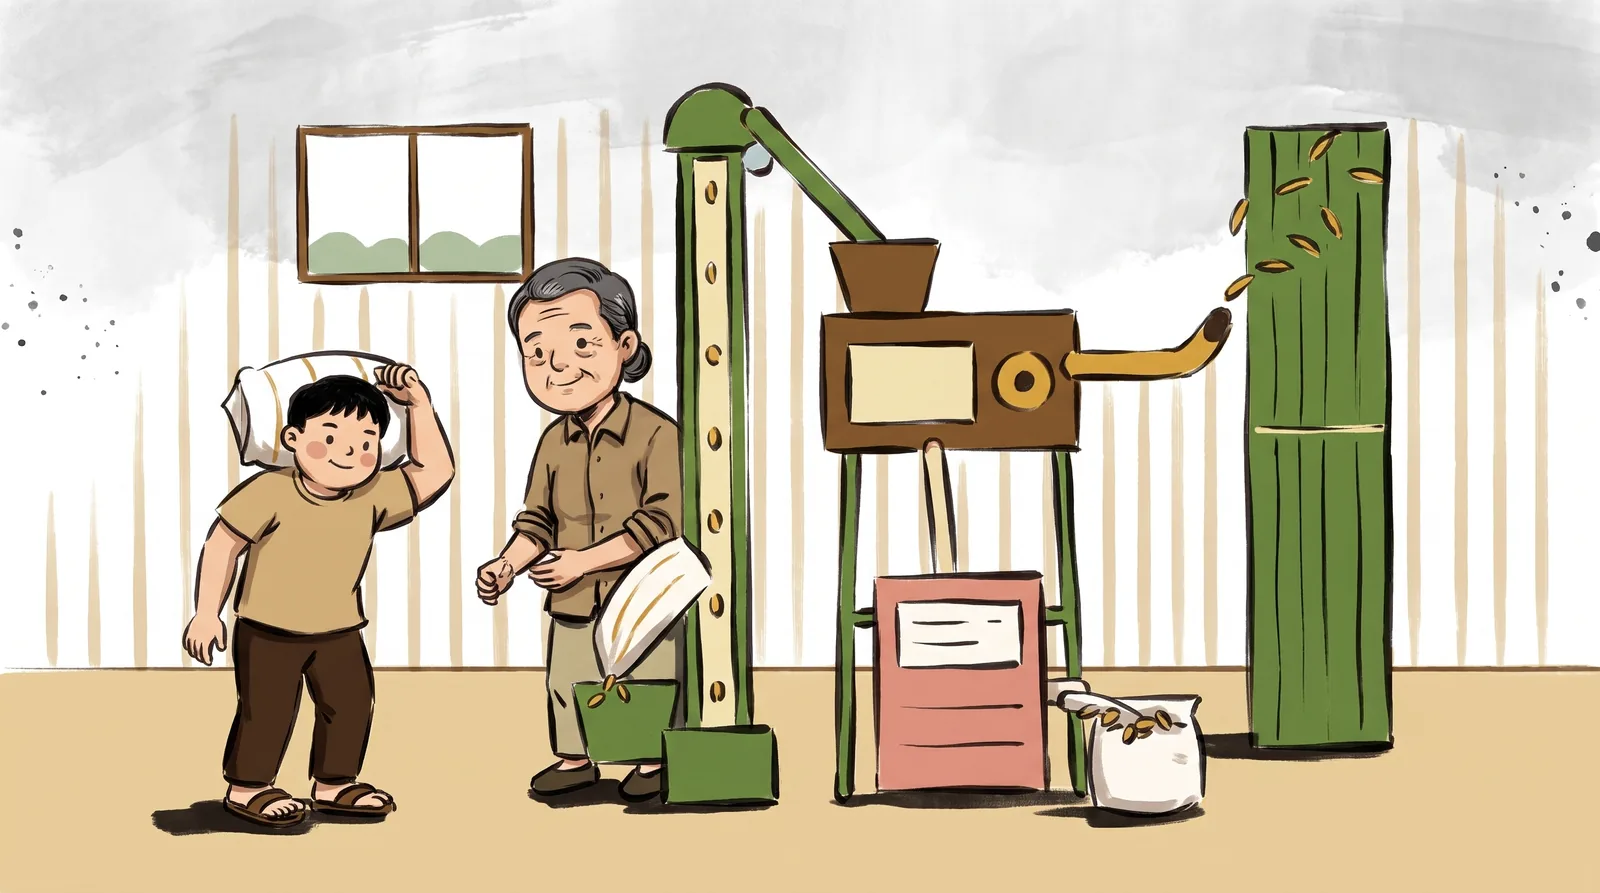
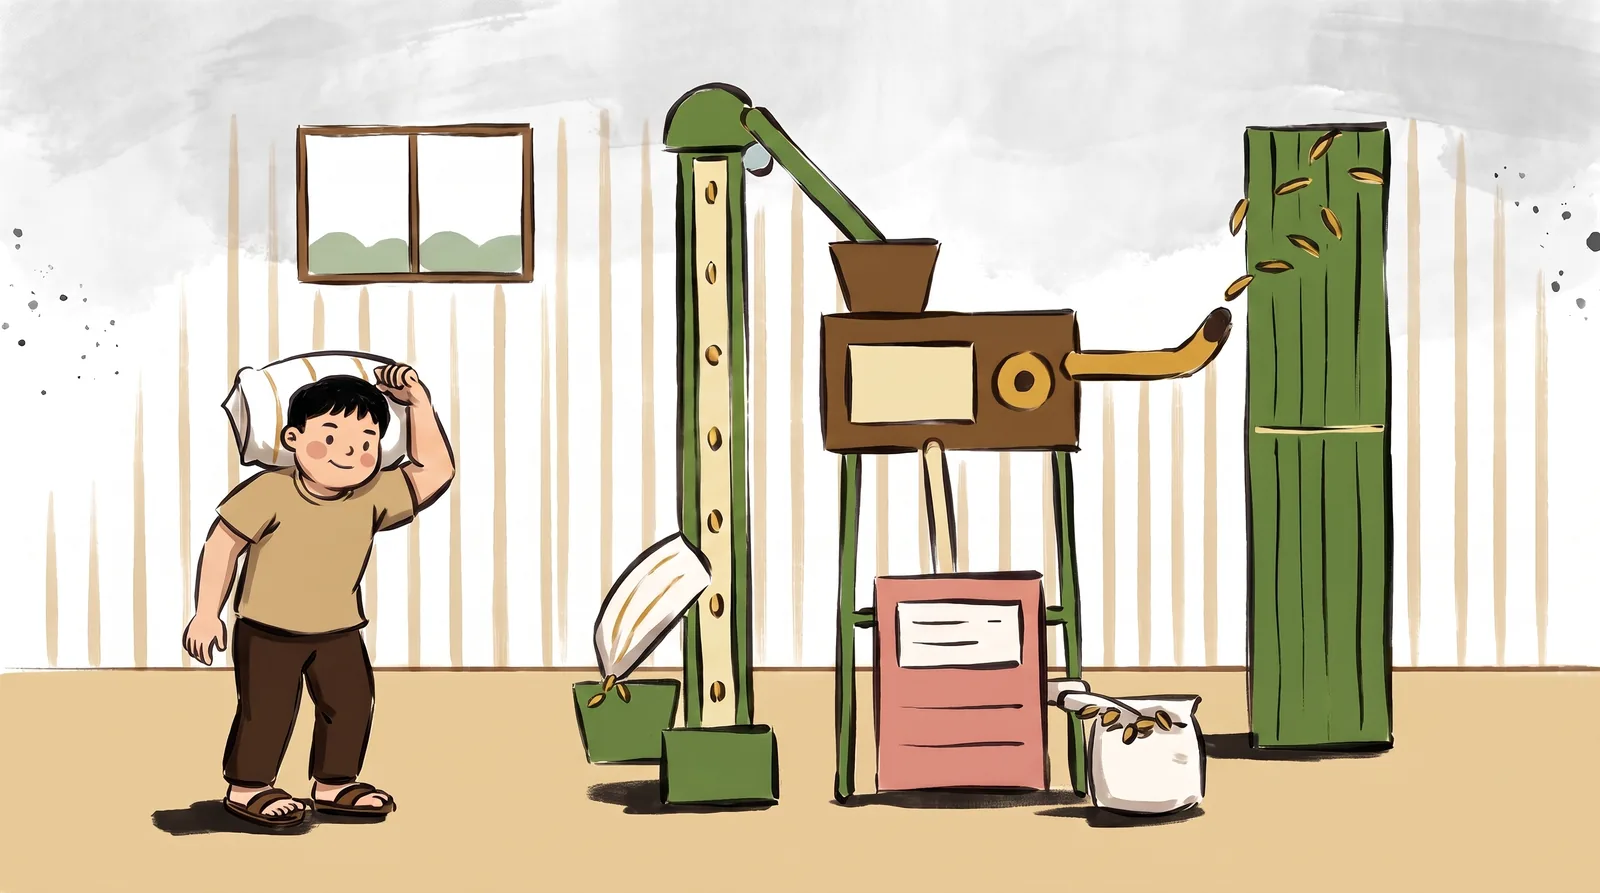
brand: journey sketches, milling with the son only, mother seated for packing

diff --git a/docs/session/log/2026-11-05-may-desktop-hanh-trinh-manhua.md b/docs/session/log/2026-11-05-may-desktop-hanh-trinh-manhua.md
@@ -12,12 +12,13 @@
 - Chủ dự án chọn: "phẳng nét mực manhua đi đẹp đó" → cảnh hành trình giữ màu phẳng và bố cục tách lớp được, nhưng nét viền là nét mực bút lông kiểu manhua (đậm nhạt, đầu nét khô); nền trời có thể loang mực nhẹ vì là lớp riêng.
 - Chủ dự án: "còn đồng lúa chưa sửa hả" → đồng lúa bước 2 phải dày hẳn: lúa mọc kín, chen nhau thành một biển lúa, không còn từng khóm rời có khoảng trống.
 - Xem bản phác thứ 3 (màu phẳng, nét mực manhua) của bước 2 và 4, chủ dự án: "okay đẹp đó duyệt" → duyệt kiểu vẽ và bố cục 2 cảnh; vẽ tiếp cảnh đêm của bước 2 và 6 cảnh còn lại theo cùng kiểu, sửa từ cảnh hiện tại.
+- Xem 7 cảnh mới, chủ dự án: cảnh xay xát chỉ có anh 2 (bỏ ba); cảnh đóng gói thì mẹ ngồi ghế đóng gạo; các cảnh còn lại OK.
 
 ## Quyết định
 - Không dùng tranh manhua cho hành trình (chủ dự án thấy chi tiết quá). Các cảnh mới vẽ theo phong cách phẳng hiện tại, chờ chủ dự án duyệt.
 
 ## Còn mở
-- Chủ dự án xem 7 cảnh mới và góp ý.
+- Chủ dự án xem lại cảnh xay xát và đóng gói đã sửa.
 - Dựng lại 9 cảnh bằng SVG tách lớp theo bản phác (sửa `brand/story/scenes/`, trace người mới). Xoá chữ lạ trên túi, máy và biển hiệu nếu có.
 - Nối tranh vào web và làm chuyển động: làm sau.
 
@@ -28,3 +29,4 @@
 - Chủ dự án hỏi "không làm style manhua hả" → giải thích: hành trình theo kiểu phẳng để làm chuyển động; manhua dùng cho tranh phần Câu chuyện; có thể làm kiểu phẳng với nét mực. Chờ chủ dự án chọn.
 - Bản phác thứ 3 (màu phẳng, nét mực manhua): đồng lúa bước 2 đã dày kín; trời thành loang mực xám (mất màu Xanh trời). Mẹ vẫn như bé gái sau 2 lần sửa → khi dựng SVG sẽ dùng tư thế mẹ người lớn đã trace. Thêm 2 ảnh, khoảng 0,27 USD; tổng phần hành trình 14 ảnh, khoảng 1,9 USD.
 - Vẽ cảnh đêm bước 2 (từ cảnh ngày, cùng bố cục) và 6 cảnh còn lại theo kiểu đã duyệt, lưu cả 9 ảnh trong `brand/story/phac/`. Mẹ vẫn dáng tròn như bé gái (giống người đã trace ở cảnh cũ). Thêm 7 ảnh, khoảng 0,95 USD; tổng phần hành trình 21 ảnh, khoảng 2,8 USD.
+- Sửa cảnh xay xát (chỉ còn anh 2) và đóng gói (mẹ ngồi ghế, bỏ chữ trên túi và máy). Mẹ ở cảnh đóng gói giờ ra người lớn. Thêm 2 ảnh, khoảng 0,27 USD; tổng phần hành trình 23 ảnh, khoảng 3,1 USD.
